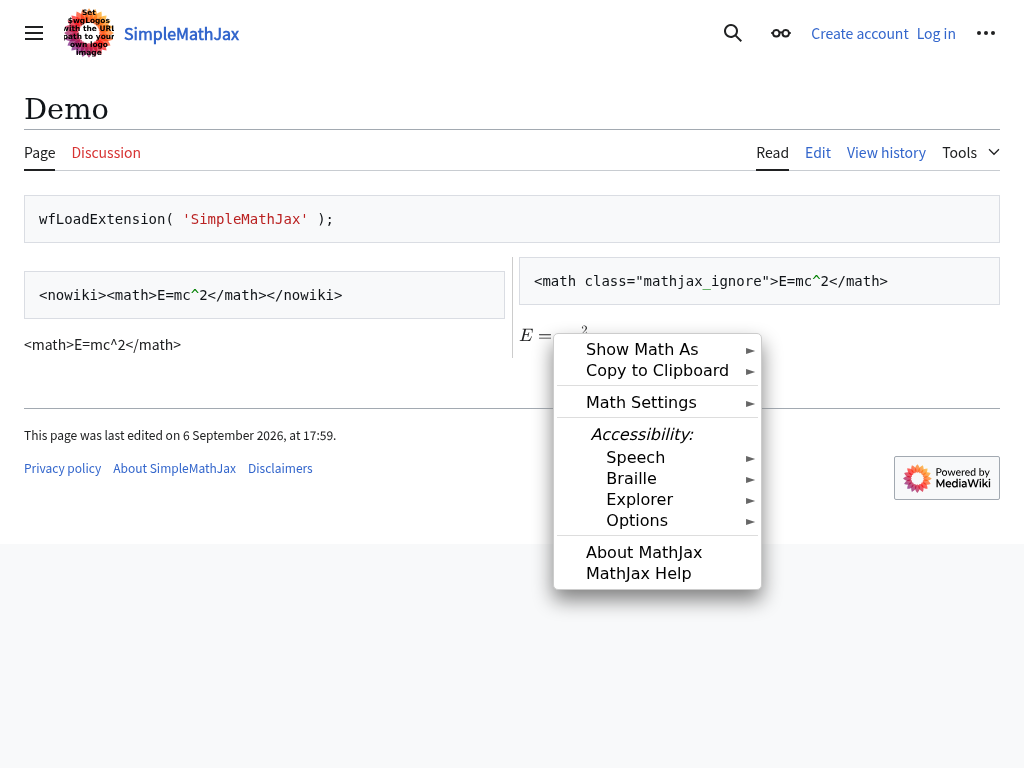
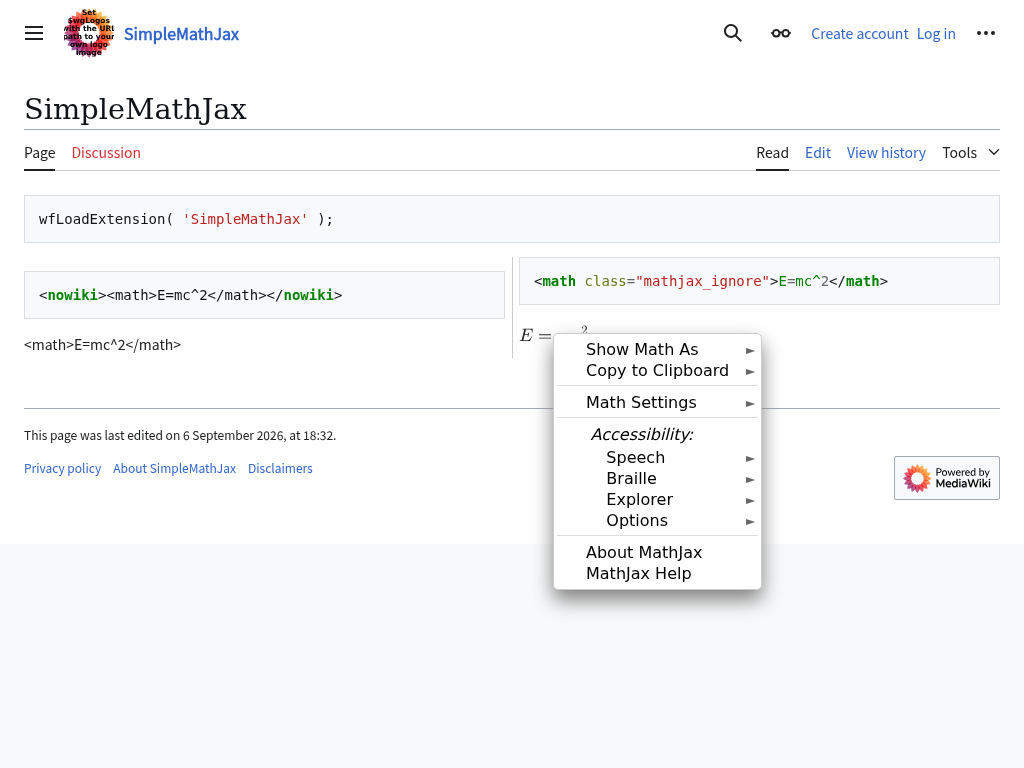
Update demo page title and screenshots (#76)

diff --git a/hack/demo/render.php b/hack/demo/render.php
@@ -155,7 +155,7 @@ if ( $mode === 'examples' ) {
 	// block up by that amount to cancel it out.
 	echo '<div style="column-count: 2; column-rule: 1px solid #ccc">';
 	foreach ( $examples as $example ) {
-		echo "<syntaxhighlight lang=\"tex\">$example</syntaxhighlight> $example\n";
+		echo "<syntaxhighlight lang=\"wikitext\">$example</syntaxhighlight> $example\n";
 	}
 	echo '</div>';
 	exit;
